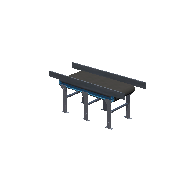
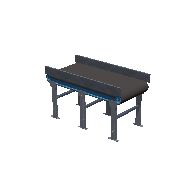
Fix SideGuardEnds scaling on load (to fix thumbnail)

Changed region(s): [[0.2188, 0.2812, 0.7812, 0.75]]

diff --git a/src/SideGuards/SideGuard.cs b/src/SideGuards/SideGuard.cs
@@ -33,33 +33,63 @@ public partial class SideGuard : MeshInstance3D
 				rEnd.Visible = value;
 		}
 	}
+	float _length = 1f;
+	[Export]
+	float Length {
+		get
+		{
+			return _length;
+		}
+		set
+		{
+			_length = value;
+			if (_length != 0)
+			{
+				if (Scale.X != _length) Scale = new (_length, Scale.Y, Scale.Z);
+				metalMaterial?.SetShaderParameter("Scale", _length);
+				lEnd.Scale = new Vector3(1 / _length, 1, 1);
+				rEnd.Scale = new Vector3(1 / _length, 1, 1);
+			}
+		}
+	}
 
-	MeshInstance3D meshInstance;
-	ShaderMaterial metalMaterial;
+	ShaderMaterial _metalMaterial;
+	ShaderMaterial metalMaterial {
+		get
+		{
+			if (_metalMaterial != null) return _metalMaterial;
+			var meshInstance = this;
+			meshInstance.Mesh = meshInstance.Mesh.Duplicate() as Mesh;
+			_metalMaterial = meshInstance.Mesh.SurfaceGetMaterial(0).Duplicate() as ShaderMaterial;
+			meshInstance.Mesh.SurfaceSetMaterial(0, _metalMaterial);
+			return _metalMaterial;
+		}
+	}
 
-	Node3D lEnd;
-	Node3D rEnd;
+	Node3D _lEnd;
+	Node3D lEnd { get => _lEnd ??= GetNodeOrNull<Node3D>("Ends/SideGuardEndL"); }
+	Node3D _rEnd;
+	Node3D rEnd { get => _rEnd ??= GetNodeOrNull<Node3D>("Ends/SideGuardEndR"); }
+
+	public override void _EnterTree()
+	{
+		Length = Scale.X;
+		SetNotifyLocalTransform(true);
+		base._EnterTree();
+	}
 
 	public override void _Ready()
 	{
-		meshInstance = this;
-		meshInstance.Mesh = meshInstance.Mesh.Duplicate() as Mesh;
-		metalMaterial = meshInstance.Mesh.SurfaceGetMaterial(0).Duplicate() as ShaderMaterial;
-		meshInstance.Mesh.SurfaceSetMaterial(0, metalMaterial);
-
-		lEnd = GetNodeOrNull<Node3D>("Ends/SideGuardEndL");
-		rEnd = GetNodeOrNull<Node3D>("Ends/SideGuardEndR");
-
-		lEnd.Visible = leftEnd;
-		rEnd.Visible = rightEnd;
+		// Make sure material is initialized.
+		_ = metalMaterial;
 	}
 
-	public override void _Process(double delta)
+	public override void _Notification(int what)
 	{
-		if (metalMaterial != null)
-			metalMaterial.SetShaderParameter("Scale", Scale.X);
-
-		lEnd.Scale = new Vector3(1 / Scale.X, 1, 1);
-		rEnd.Scale = new Vector3(1 / Scale.X, 1, 1);
+		if (what == NotificationLocalTransformChanged)
+		{
+			Length = Scale.X;
+		}
+		base._Notification(what);
 	}
 }
